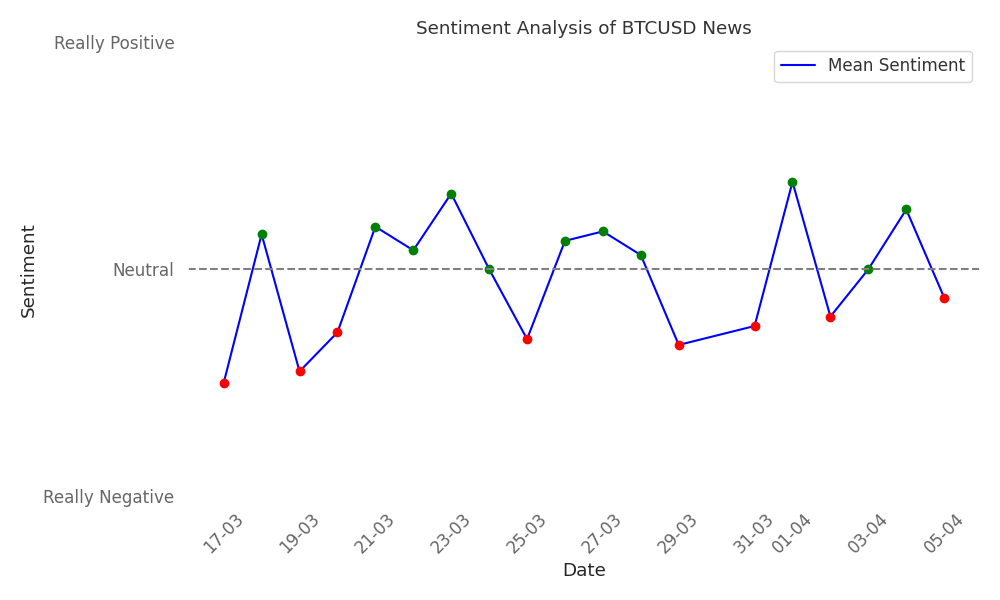
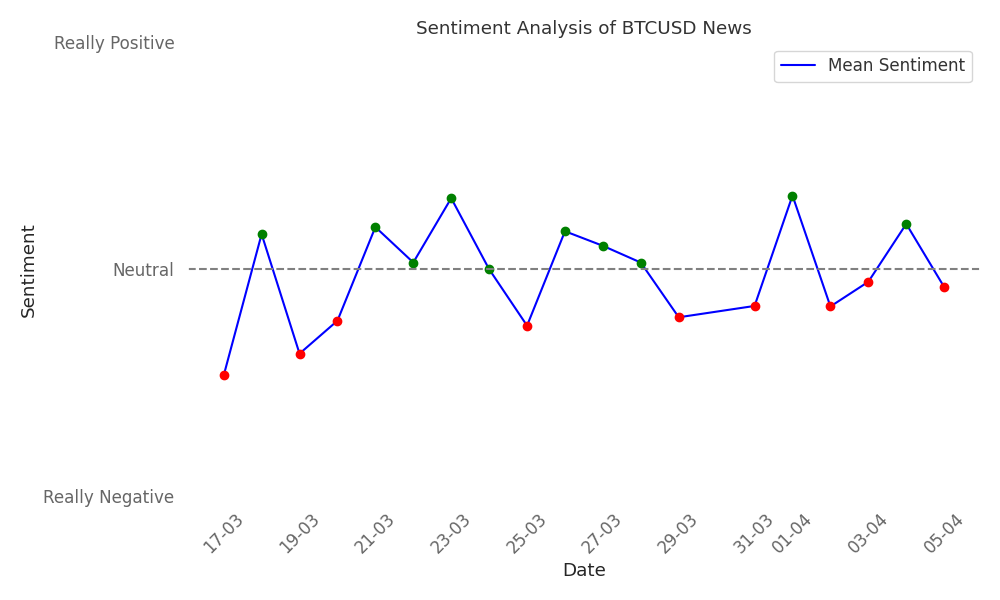
News class * prob

diff --git a/tapzada/news.py b/tapzada/news.py
@@ -30,26 +30,29 @@ class News():
         news = self.api.get_news(symbol=self.symbol, start=days_prior, end=today, limit=1000) 
         dates = [ev.__dict__["_raw"]["created_at"] for ev in news]
         news = [ev.__dict__["_raw"]["headline"] for ev in news]
-        probability, sentiment, sentiment_list = estimate_sentiment(news)
-        sentiment_data = list(zip(dates, sentiment_list))
+        probability, sentiment, sentiment_list, prob_list = estimate_sentiment(news)
+        sentiment_data = list(zip(dates, sentiment_list, prob_list))
         sorted_sentiment_data = sorted(sentiment_data, key=lambda x: x[0])
         sorted_dates = [data[0] for data in sorted_sentiment_data][1:]
         sorted_sentiments = [data[1] for data in sorted_sentiment_data][1:]
-        return probability, sentiment, sorted_sentiments, sorted_dates
+        sorted_probabilities = [data[2] for data in sorted_sentiment_data][1:]
+        return probability, sentiment, sorted_sentiments, sorted_dates, sorted_probabilities
 
     def collect_sentiment_data(self, days=3):
         sentiment_data = []
-        _, _, sentiments, dates = self.get_sentiment(days=days)
-        for date, sent in zip(dates, sentiments):
-            sentiment_data.append((date, sent))
+        _, _, sentiments, dates, probs = self.get_sentiment(days=days)
+        for date, sent, prob in zip(dates, sentiments, probs):
+            sentiment_data.append((date, sent, prob))
         return sentiment_data
 
     def plot_sentiment_analysis(self, sentiment_data):
         dates = [datetime.strptime(data[0][:10], '%Y-%m-%d') for data in sentiment_data]
         sentiments = [1 if data[1] == "positive" else -1 if data[1] == "negative" else 0 for data in sentiment_data]
+        probabilities = [data[2] for data in sentiment_data]
+        
         sentiments_by_date = defaultdict(list)
-        for date, sentiment in zip(dates, sentiments):
-            sentiments_by_date[date.date()].append(sentiment)
+        for date, sentiment, probability in zip(dates, sentiments, probabilities):
+            sentiments_by_date[date.date()].append(sentiment * probability)
         mean_sentiments = {}
         for date, sent_list in sentiments_by_date.items():
             mean_sentiments[date] = sum(sent_list) / len(sent_list)
@@ -73,7 +76,6 @@ class News():
         plt.grid(False)
         plt.tight_layout()
         plt.savefig('sentiment_analysis.png')
-        plt.show()
         print(mean_sentiments)
 
 news = News()

diff --git a/tapzada/utils.py b/tapzada/utils.py
@@ -11,6 +11,7 @@ labels = ["positive", "negative", "neutral"]
 
 def estimate_sentiment(news):
     sentiment_list = []  # Initialize an empty list to store sentiments for each headline
+    probability_list = []  # Initialize an empty list to store probabilities for each headline
     if news:
         for headline in news:
             tokens = tokenizer(headline, return_tensors="pt", padding=True).to(device)
@@ -19,10 +20,11 @@ def estimate_sentiment(news):
             probability = result[torch.argmax(result)]
             sentiment = labels[torch.argmax(result)]
             sentiment_list.append(sentiment)  # Append the sentiment to the list
+            probability_list.append(probability.item())
             
     else:
         sentiment_list.append(labels[-1])  # Default value if no headlines are available
-    return probability, sentiment, sentiment_list
+    return probability, sentiment, sentiment_list, probability_list
 
 
 
